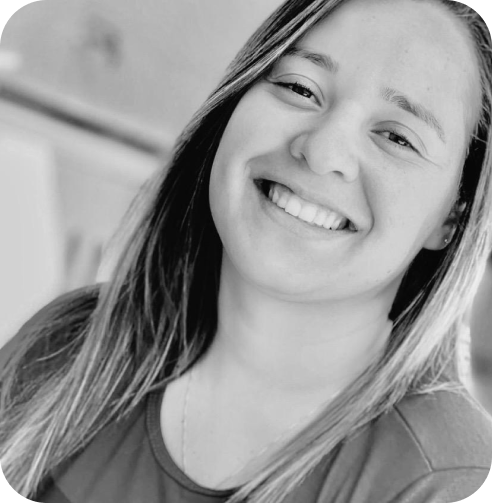
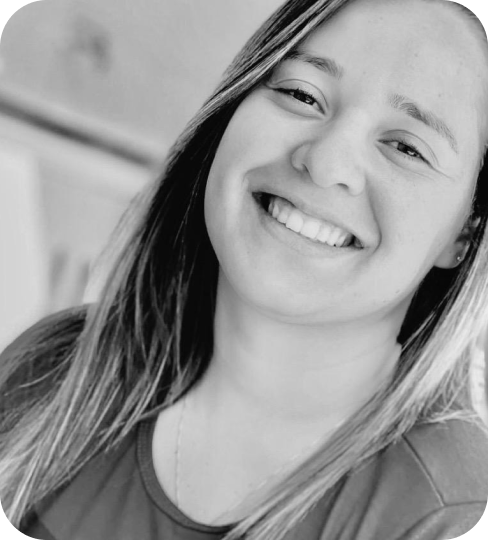
ajustando o espaçamento

diff --git a/portfolio/index.html b/portfolio/index.html
@@ -11,15 +11,15 @@
     <header></header>
     <main class="apresentacao">
         <section class="apresentacao__conteudo">
-            <h1 class="apresentacao__conteudo__titulo">Bem vindo(a) meu nome é <strong class="titulo-destaque">Portfólio</strong>!</h1>
-            <p class="apresentacao__conteudo__texto">Olá! Sou <strong class="titulo-destaque">Sabrina Bueno</strong>, estudante de programação e Análise e Desenvolvimento de Sistema. Possuo habilidades sólidas em JavaScript, HTML e CSS , Metodologias de Desenvolvimento (Scrum e Kanban).</p> 
-            <p class="apresentacao__conteudo__texto">Fique a vontade para acessar minhas redes sociais</p>
+            <h1 class="apresentacao__conteudo__titulo">Bem vindo(a)  <strong class="titulo-destaque">Portfólio</strong>!</h1>
+            <p class="apresentacao__conteudo__texto">Olá! Meu nome é <strong class="titulo-destaque">Sabrina Bueno</strong>, sou estudante de programação e Análise e Desenvolvimento de Sistema. Possuo habilidades sólidas em JavaScript, HTML e CSS , Metodologias de Desenvolvimento (Scrum e Kanban).</p> 
+            <p class="apresentacao__conteudo__texto">Fique a vontade para acessar minhas redes sociais!</p>
             <div class="apresentacao__links">
-                <a href="https://www.instagram.com/sabrinnabueno/" >Instagram</a>
-                <a href="https://github.com/sabrinabuenof">Github</a>
+                <a class="apresentacao__links__link" href="https://www.instagram.com/sabrinnabueno/" >Instagram</a>
+                <a class="apresentacao__links__link" href="https://github.com/sabrinabuenof">Github</a>
             </div>
         </section>
-        <img src="sabrina.png" alt="Fota da sabrina">
+        <img class="imagem" src="sabrina.png" alt="Fota da sabrina">
     </main>
     <footer></footer>
 </body>

diff --git a/portfolio/style.css b/portfolio/style.css
@@ -19,9 +19,14 @@ body {
     color: #159A9C;
 }
 
+.imagem {
+    width: 400px;
+    margin-left: 20px; 
+}
+
 
 .apresentacao {
-    margin: 10%;
+    margin: 10% 15%;
     display: flex;
     align-items: center;
     justify-content: space-between;
@@ -29,6 +34,9 @@ body {
 
 .apresentacao__conteudo {
     width: 615px;
+    display: flex;
+    flex-direction: column;
+    gap: 40px;
 }
 
 .apresentacao__conteudo__titulo {
@@ -46,4 +54,18 @@ body {
 .apresentacao__links {
     display: flex;
     justify-content: space-between;
+}
+
+.apresentacao__links__link {
+    background-color: #159A9C;
+    width: 200px;
+    text-align: center;
+    font-weight: 600;
+    border-radius: 16px;
+    font-size: 20px;
+    padding: 20px 0;
+    text-decoration: none;
+    color: #002333;
+    font-family: "Poppins", sans-serif;
+
 }
